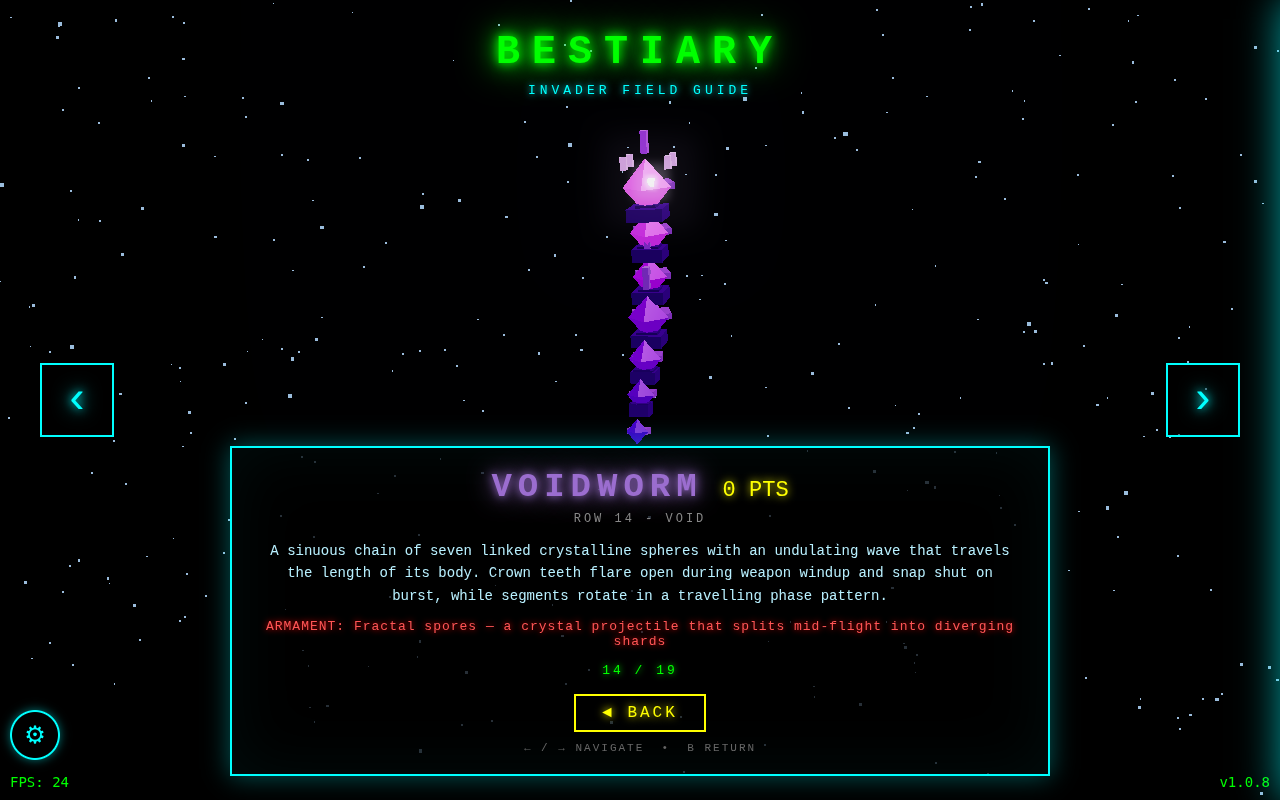
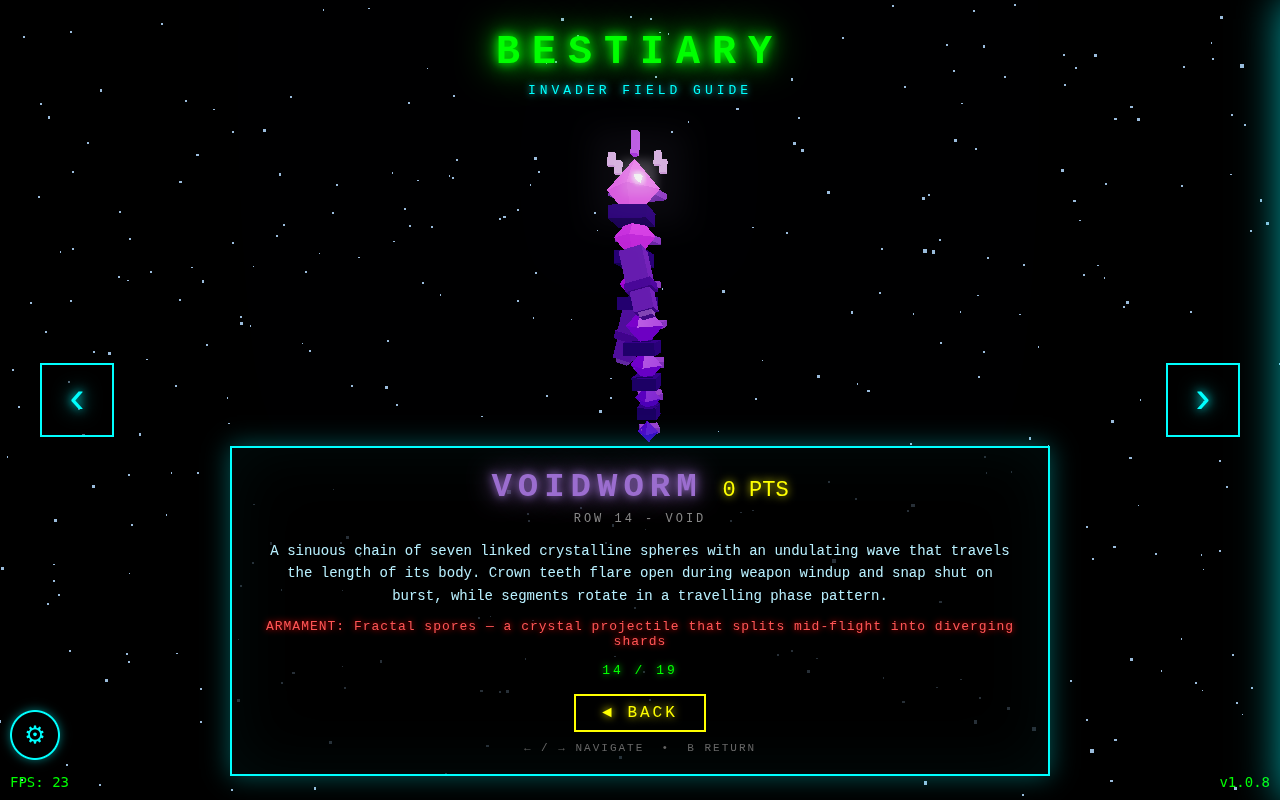
voidworm: add swinging crystal arms (score 8.0 confirmed)

Changed region(s): [[0.4688, 0.1562, 0.5312, 0.5625]]

diff --git a/js/aliens.js b/js/aliens.js
@@ -2965,6 +2965,17 @@ const VOIDWORM_EYES = [
     { size: [0.05, 0.05, 0.04], pos: [0.07, 0.04, 0.045], color: 0xffffff }
 ];
 
+// Arm voxels — two crystal prisms that hang from the mid-body and swing.
+// Each arm has an upper prism and a forearm prism, joined at a "joint."
+const VOIDWORM_UPPER_ARM = [
+    { size: [0.14, 0.22, 0.14], pos: [0, -0.11, 0], color: VOIDWORM_MID },
+    { size: [0.16, 0.05, 0.16], pos: [0, -0.23, 0], color: VOIDWORM_DARK }  // joint bead
+];
+const VOIDWORM_FORE_ARM = [
+    { size: [0.12, 0.20, 0.12], pos: [0, -0.10, 0], color: VOIDWORM_MID },
+    { size: [0.08, 0.04, 0.08], pos: [0, -0.21, 0], color: VOIDWORM_BRIGHT }  // glowing tip
+];
+
 // Per-segment radii (sphere-like segments, tapering head/tail)
 const VOIDWORM_RADII = [0.16, 0.13, 0.12, 0.14, 0.11, 0.09, 0.07];
 const VOIDWORM_Y     = [0, -0.28, -0.56, -0.82, -1.08, -1.30, -1.52];
@@ -3022,12 +3033,19 @@ function getVoidwormParts() {
         { size: [0.12, 0.06, 0.12], pos: [0, 0, 0], color: VOIDWORM_DARK }
     ]);
 
+    // Arms — two crystal-prism limbs hanging from the mid-body, swinging like
+    // pendulums. Each arm has an upper prism + joint bead and a forearm + tip.
+    const armUpperGeometry = buildVoxelGeometry(VOIDWORM_UPPER_ARM);
+    const armForeGeometry = buildVoxelGeometry(VOIDWORM_FORE_ARM);
+
     voidwormParts = {
         segmentGeometries,
         connectorGeometries,
         coreGeometries,
         teethGeometry: buildVoxelGeometry(VOIDWORM_TEETH),
         eyeGeometry: buildVoxelGeometry(VOIDWORM_EYES),
+        armUpperGeometry,
+        armForeGeometry,
         spineGeometry,
         plateGeometry,
         beadGeometry,
@@ -3099,6 +3117,22 @@ function getVoidwormParts() {
             vertexColors: true,
             emissive: 0xffffff,
             emissiveIntensity: 1.1,
+            flatShading: true
+        }),
+        armUpperMaterial: new THREE.MeshPhongMaterial({
+            vertexColors: true,
+            emissive: VOIDWORM_DARK,
+            emissiveIntensity: 0.4,
+            specular: 0xbb88ff,
+            shininess: 100,
+            flatShading: true
+        }),
+        armForeMaterial: new THREE.MeshPhongMaterial({
+            vertexColors: true,
+            emissive: VOIDWORM_DARK,
+            emissiveIntensity: 0.4,
+            specular: 0xbb88ff,
+            shininess: 100,
             flatShading: true
         })
     };
@@ -3204,6 +3238,35 @@ function createVoidwormAlien(group) {
     // bodyPivot visibly detached and floated over the body below.
     segments[0].pivot.add(teeth);
     segments[0].pivot.add(eyes);
+
+    // Crystal arms — two prismatic limbs hanging from body segments 1 and 2,
+    // swinging pendulum-style. Each arm has an upper prism + joint and a forearm.
+    group.userData.arms = [-1, 1].map((side, idx) => {
+        // Mount on segment 1 (idx 0) and segment 2 (idx 1)
+        const segIdx = idx + 1;
+        const mount = new THREE.Group();
+        // Position on the side of the segment, hanging down
+        mount.position.set(side * VOIDWORM_RADII[segIdx], 0, 0);
+        segments[segIdx].pivot.add(mount);
+
+        // Upper arm — vertical crystal prism
+        const upper = new THREE.Mesh(
+            parts.armUpperGeometry,
+            parts.armUpperMaterial.clone()
+        );
+        upper.position.y = -0.11;
+        mount.add(upper);
+
+        // Forearm — hangs from the joint, slightly offset
+        const fore = new THREE.Mesh(
+            parts.armForeGeometry,
+            parts.armForeMaterial.clone()
+        );
+        fore.position.y = -0.28;
+        mount.add(fore);
+
+        return { mount, upper, fore, side, idx };
+    });
 }
 
 // ---------------------------------------------------------------------------
@@ -4903,6 +4966,23 @@ export function animateAlien(alien) {
                 self.teeth.scale.setScalar(teethScale);
             }
 
+            // Crystal arms — pendulum swing. Each arm hangs from its body
+            // segment and swings back and forth, with a phase offset so the
+            // left and right arms don't move in lockstep. The swing amplitude
+            // follows the worm's undulation — bigger wave = wider arm swing.
+            if (self.arms) {
+                self.arms.forEach(arm => {
+                    const phase = arm.idx * Math.PI; // opposite phase for left/right
+                    // Pendulum swing: rotation in X about the mount pivot
+                    const swing = Math.sin(t * 2.5 + phase) * 0.55;
+                    arm.mount.rotation.x = swing;
+                    // Slight Y swing for more organic motion
+                    arm.mount.rotation.z = Math.sin(t * 1.8 + phase + 0.7) * 0.15;
+                    // Forearm hangs loosely — slight lag behind upper arm
+                    arm.fore.position.y = -0.28 - Math.abs(swing) * 0.04;
+                });
+            }
+
             // Idle hover
             if (!alien.userData.isSwooping) {
                 alien.position.y = 0.04 + Math.sin(t * 1.5) * 0.03;
@@ -4910,7 +4990,7 @@ export function animateAlien(alien) {
             break;
         }
 
-        case 14: { // Raven — wings snap open, beak clacks, crest pulses
+        case 14: { // Raven
             const self = alien.userData;
             const t = time;
             const period = 6.0;
